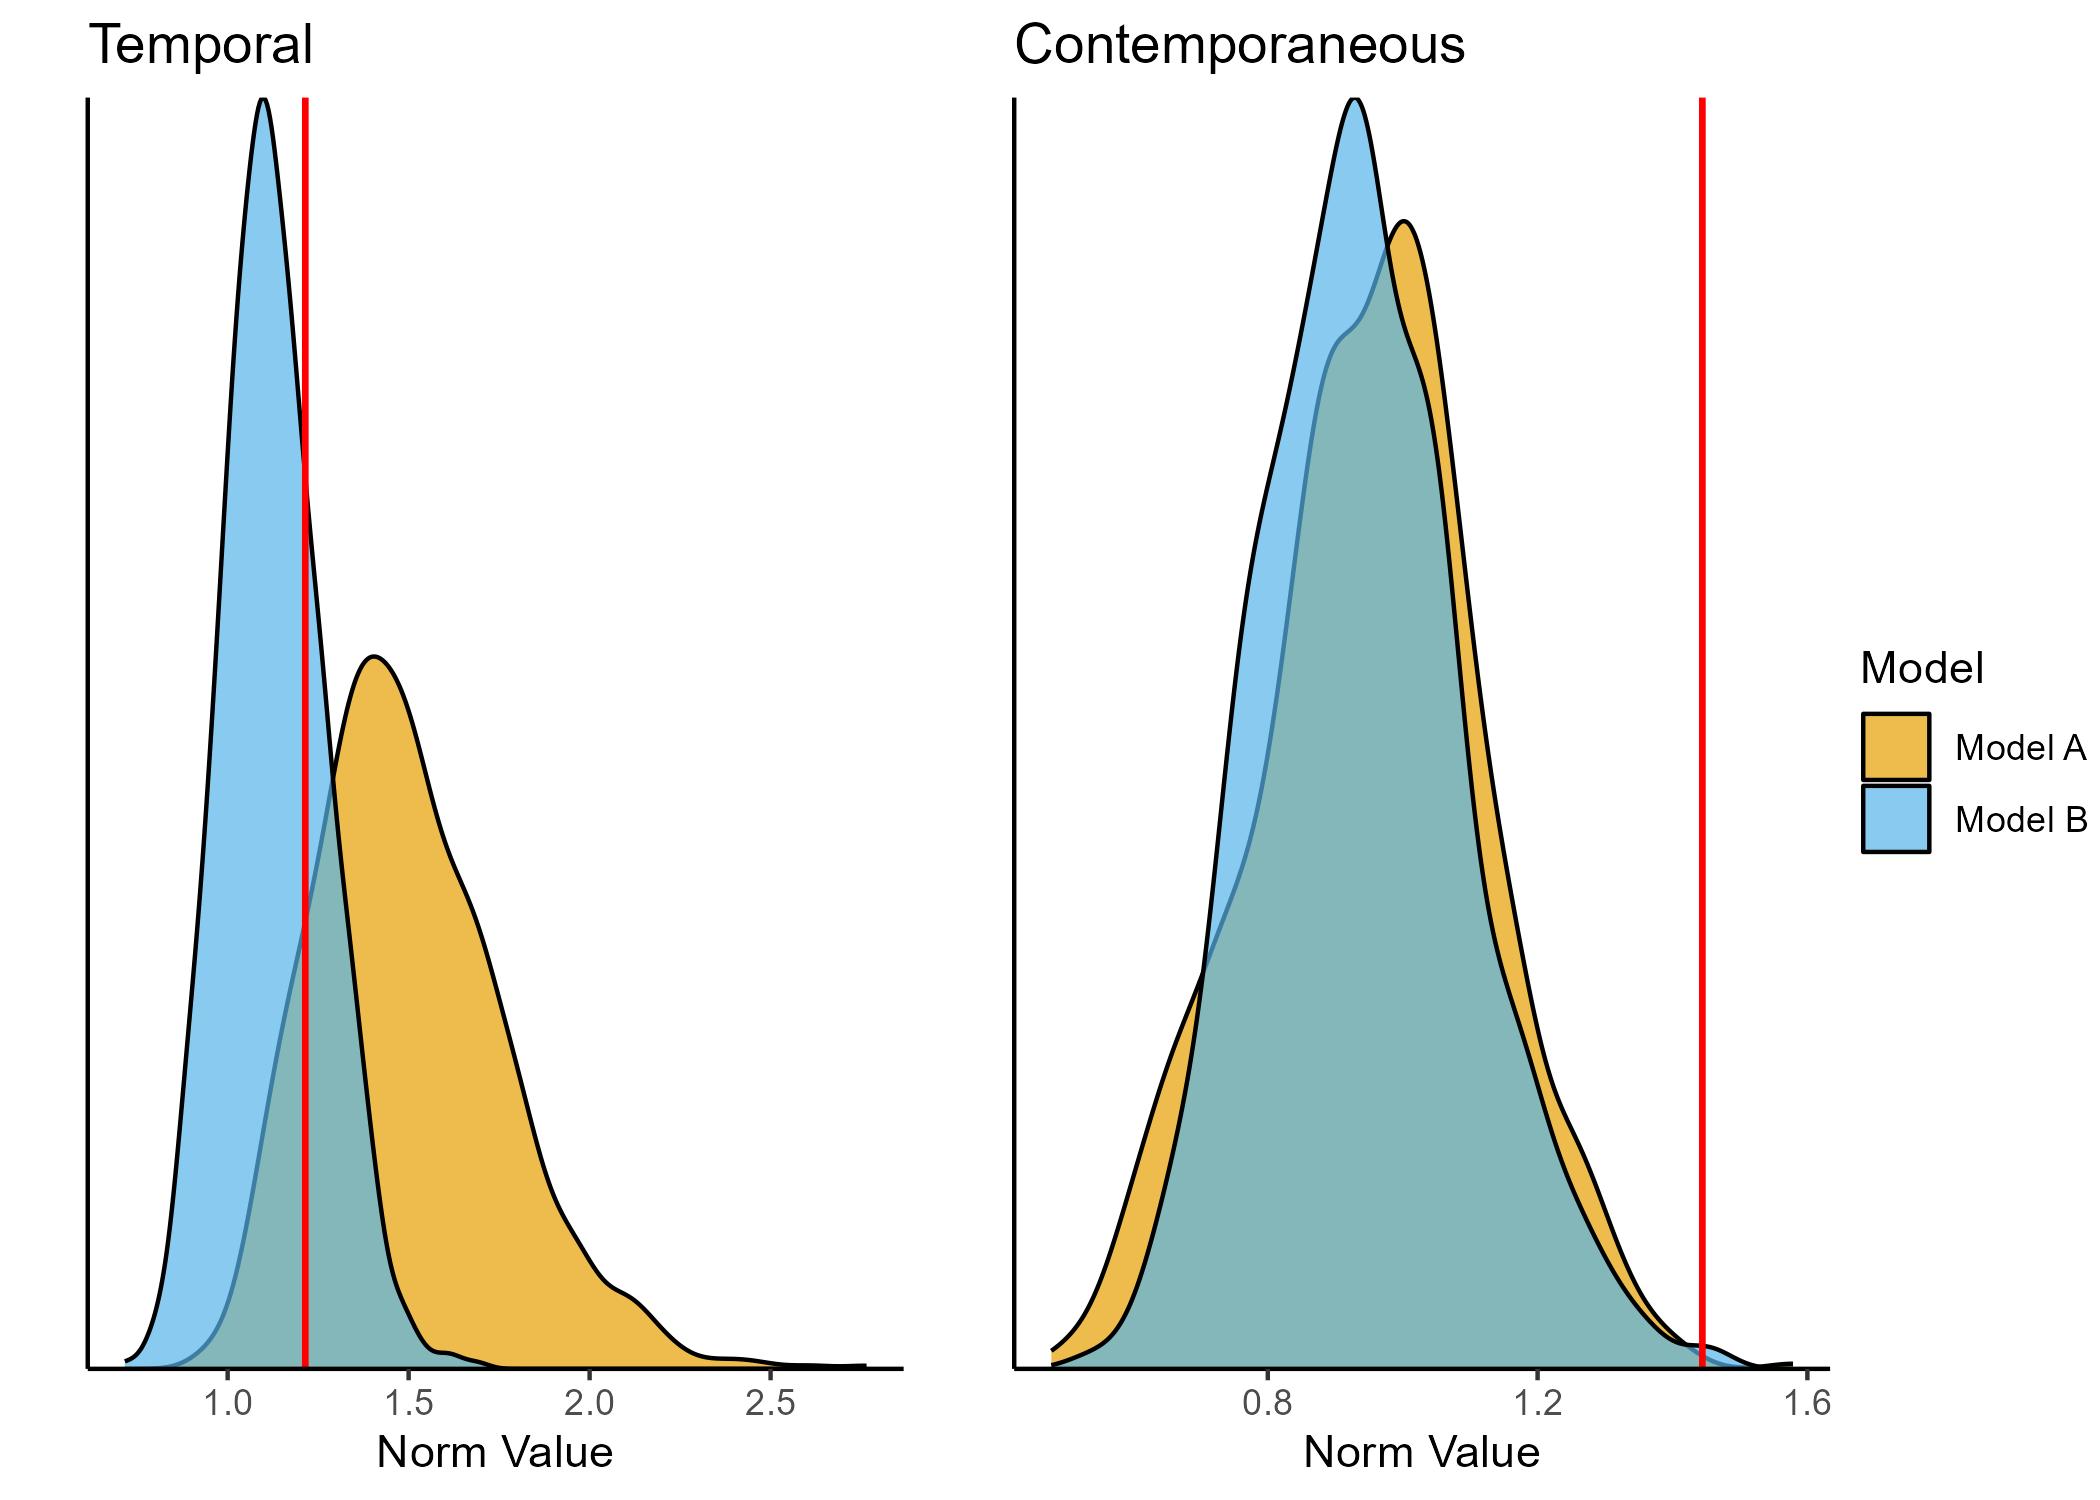
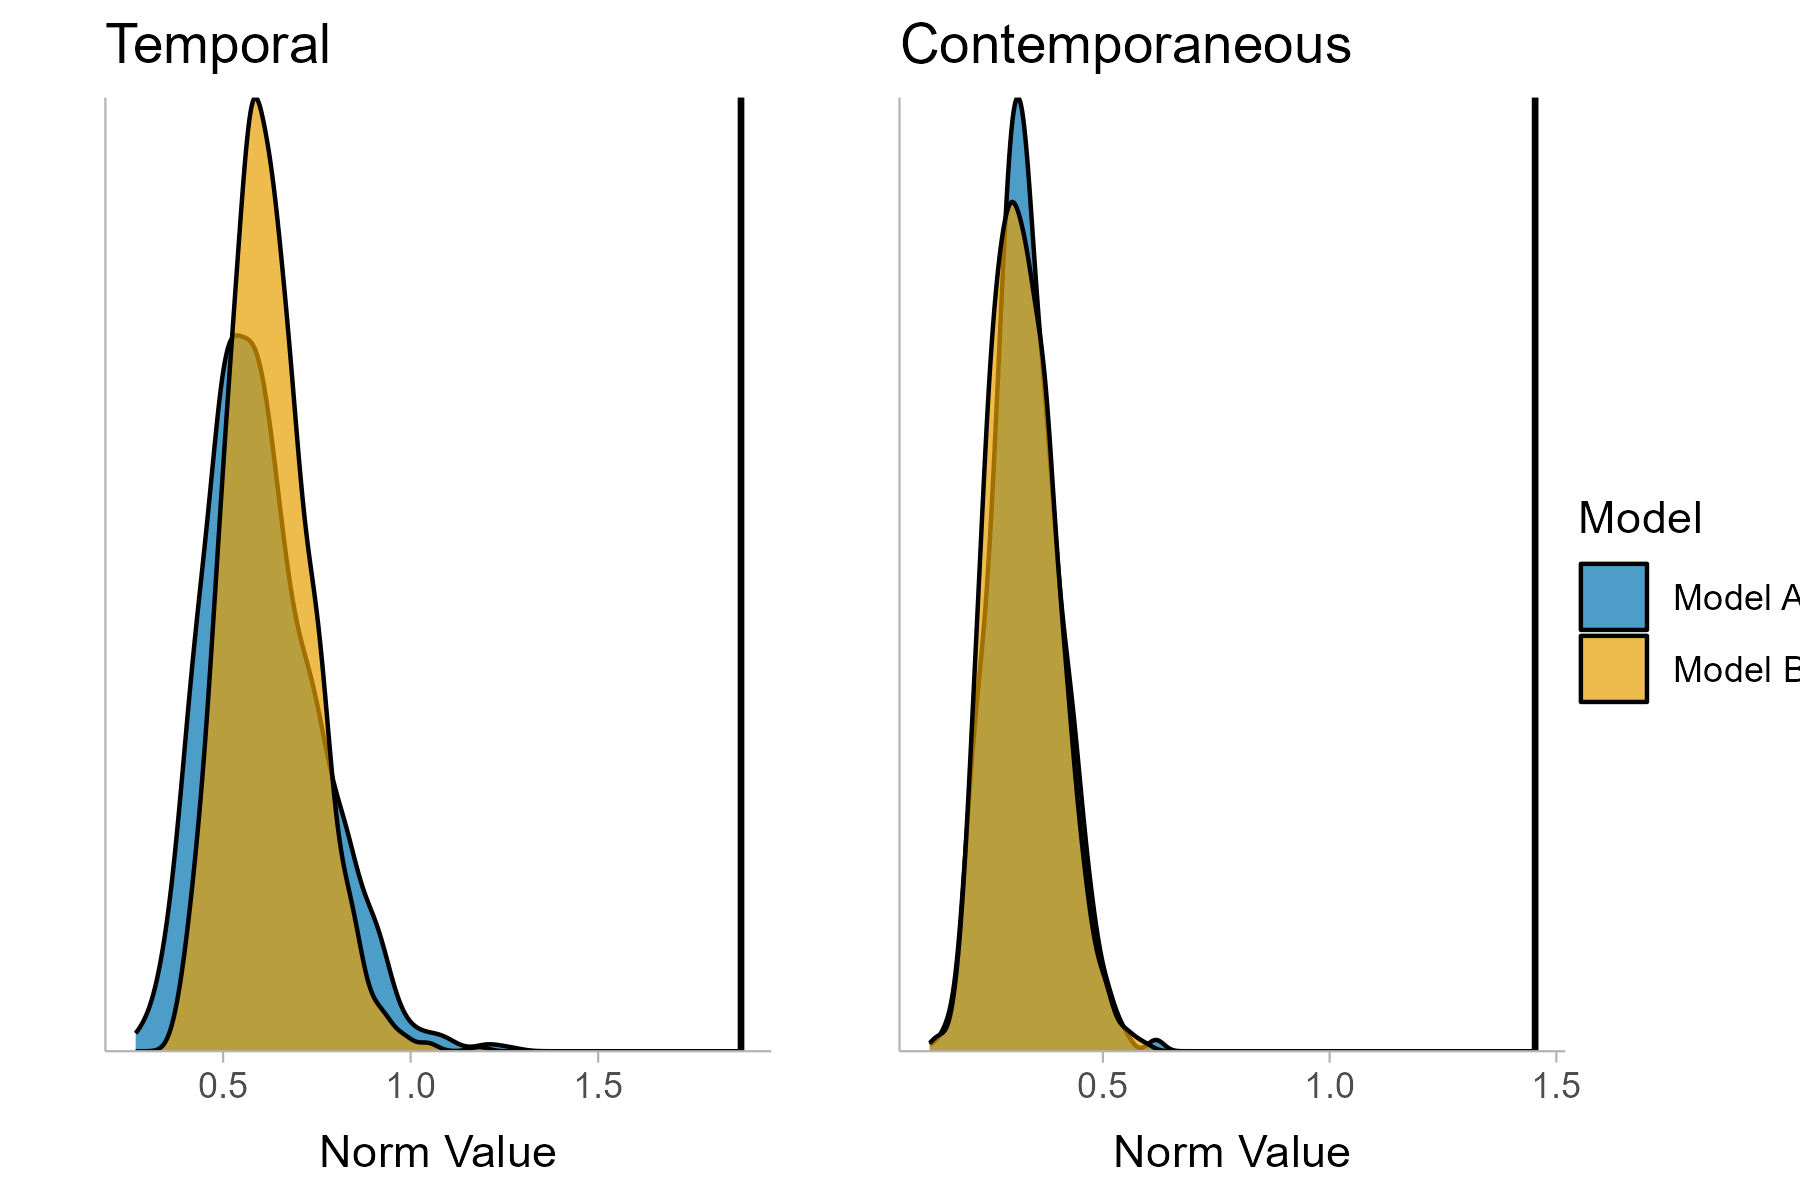
udpate readme
update plots ans function to new preprint

Changed region(s): [[0.4667, 0.0, 1.0, 0.9867], [0.0311, 0.0, 0.4356, 0.9867]]

diff --git a/README.md b/README.md
@@ -6,17 +6,22 @@
 <!-- badges: start -->
 <!-- badges: end -->
 
-Please note that this package is currently undergoing major changes as
-part of a manuscript revision. Please get in contact if you currently
-wish to use the package.
-
 The goal of `tsnet` is to include helpful functions for dynamic network
 modelling in psychology and surrounding fields. The package contains
 functionality to estimate Bayesian GVAR models in Stan, as well as a
 test for network comparison. Additionally, the package includes
-functions to plot posterior estimates and centrality indices.
+functions to plot posterior estimates and centrality indices. More
+information is provided in the associated preprint [Siepe et
+al. (2024)](https://psyarxiv.com/uwfjc/).
 
 ## Installation
+
+You can install the released version of `tsnet` from
+[CRAN](https://CRAN.R-project.org) with:
+
+``` r
+install.packages("tsnet")
+```
 
 You can install the development version of `tsnet` from
 [GitHub](https://github.com/bsiepe/tsnet) with:
@@ -26,7 +31,7 @@ You can install the development version of `tsnet` from
 devtools::install_github("bsiepe/tsnet")
 ```
 
-This installation may take some time as the models are compiled upon
+The installation may take some time as the models are compiled upon
 installation.
 
 ## Getting Started
@@ -42,14 +47,20 @@ preprint.
 library(tsnet)
 
 # Load example data
-data <- tsnet::ts_data
+data(ts_data)
+
+# use data of first individual
+data <- subset(ts_data, id == "ID1")
 
 # Estimate network
-fit_stan <- tsnet::stan_gvar(data[,-7],
+fit_stan <- stan_gvar(data[,-7],
                  cov_prior = "IW",
                  iter_warmup = 500,
                  iter_sampling = 500,
                  n_chains = 4)
+
+# print summary
+print(fit_stan)
 ```
 
 ### Comparing Network Models
@@ -59,40 +70,38 @@ models. We use here BGGM to estimate the networks, but the `stan_gvar`
 function can be used as well.
 
 ``` r
-library(BGGM)
 library(tsnet)
 
-
-# Load data of two individuals
-data <- BGGM::ifit
-data_1 <- subset(data, id == 1)
-data_3 <- subset(data, id == 3)
+# Load simulated time series data of two individuals
+data(ts_data)
+data_1 <- subset(ts_data, id == "ID1")
+data_2 <- subset(ts_data, id == "ID2")
 
 # Estimate networks
 # (should perform detrending etc. in a real use case)
-net_1 <- BGGM::var_estimate(data_1[,-1],
-                            rho_sd = 0.25, 
-                            beta_sd = 0.5,
-                            iter = 50000)
-net_3 <- BGGM::var_estimate(data_3[,-1],
-                            rho_sd = 0.25, 
-                            beta_sd = 0.5,
-                            iter = 50000)
+net_1 <- stan_gvar(data_1[,-7],
+                   iter_sampling = 1000,
+                   n_chains = 4)
+net_2 <- stan_gvar(data_2[,-7],
+                   iter_sampling = 1000,
+                   n_chains = 4)
 
 # Plot individual temporal network estimates
-post_plot_1 <- tsnet::posterior_plot(net_1)
+post_plot_1 <- posterior_plot(net_1)
 ```
 
-![](man/figures/post_plot_example.png)
+![](man/figures/post_plot_example_tsnet.png)
 
 You can then compare these networks, summarize the results and plot the
-test results:
+test results. In this case, the test is significant for both the
+temporal and the contemporaneous network.
 
 ``` r
 # Compare networks
-compare_13 <- tsnet::compare_gvar(net_1, 
-                    net_3,
-                    return_all = TRUE)
+compare_13 <- compare_gvar(net_1, 
+                           net_2,
+                           return_all = TRUE,
+                           n_draws = 1000)
 
 # Print summary of results
 print(compare_13)
@@ -110,5 +119,6 @@ test_plot_13 <- plot(compare_13,
 If you use the package, please cite the preprint that introduces the
 package and the test:
 
-Siepe, B.S. & Heck, D.W. (2023). Bayesian Estimation and Comparison of
-Idiographic Network Models. (<https://psyarxiv.com/uwfjc/>)
+Siepe, B.S., Kloft, M. & Heck, D.W. (2024). Bayesian Estimation and
+Comparison of Idiographic Network Models.
+(<https://psyarxiv.com/uwfjc/>)
